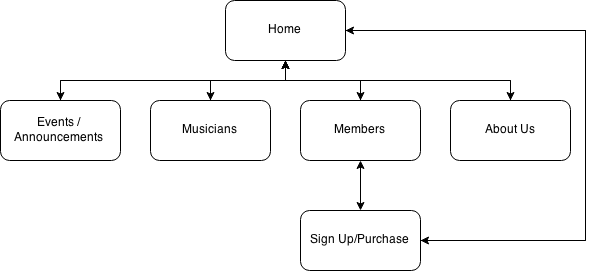
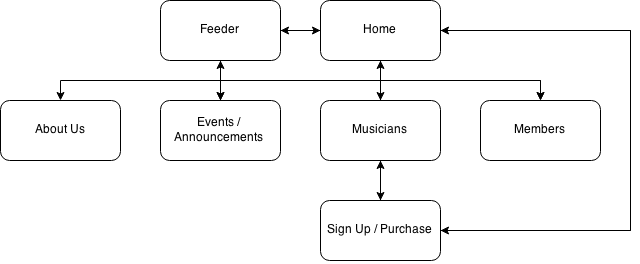
Last Stretch
Feeder Page Added
Updated the Site Flowchart

diff --git a/TCMCFeeder.html b/TCMCFeeder.html
@@ -1,0 +1,91 @@
+<!doctype html>
+<html>
+<head>
+<meta charset="utf-8">
+<link rel="stylesheet" type="text/css" href="main.css">
+<title>Townsville Community Music Centre - Home</title>
+</head>
+
+<body>
+	
+    <header>
+    <img src="TCMC98Neg.gif" alt="Townsville Community Music Centre Logo Left">
+    <img src="TCMC98Neg.gif" alt="Townsville Community Music Centre Logo Right">
+    </header>
+    <div class="container">
+        <nav>
+        <ul>
+        	<li><a href="TCMCHome.html">Home</a></li>
+
+            <li><a href="TCMCEvents.html">Events</a></li>
+
+            <li><a href="TCMCMembers.html">Members</a></li>
+
+            <li><a href="TCMCMusicans.html">Musicians</a></li>
+
+            <li><a href="TCMCAboutUs.html">About Us</a></li>
+
+        </ul>
+        </nav>
+    </div>
+    
+    <div id="feederImg">
+    <img src="PianoKeys.jpg" alt="Piano"/>
+    </div>
+    	
+    <div class="byLine">
+    	<p>
+        Like these tips? Try a Masterclass with Roman Rudnytsky!
+    
+    <div class="externalEventsInfo">
+    <a href="TCMCEvents.html">See our Events!</a>
+    </div>
+   
+    	</p>
+    
+    </div>
+     
+     <div class="aboutFeeder">
+<h3>Simple Easy Tips When Starting to Play the Piano</h3>
+<h4>Just Relax</h4>
+<p>
+If your fingers are rigid, stiff, with the anxiety of trying to get the right notes at the right time, it will be much more difficult to get it right. Touching the piano keys lightly and gently will make it  much easier to get the the right place at the right time. A relaxed hand is much easier to get the the right place at the right time.
+</p>
+
+<h4>Enjoy Yourself</h4>
+<p>Play something you like and that you are familiar with. In time, you will be able to look at any sheet of music and play something close to what is written, but there is no sense adding the burden of playing unfamiliar music on top of learning to press the right key. When we learned to type, we learned by typing familiar words. We didn't learn to type obscure chemical names or technical jargon. The same applies to the piano. When starting out, play what is fun for you. Anything you play will develop your skill.
+
+If you are practicing to play by ear, play what you are familiar with: advertising jingles, TV theme music, popular folk songs, etc.
+</p>
+
+<h4>For improving Fluidity</h4>
+<p>
+Try to play by ear and your fluidity may increase greatly.  In other words play without any music, sit down and play the melody to some songs that are very familiar to you. This should be music that you have not previously played from a printed page.</p>
+
+<p>You don't have to become an expert at playing by ear, but if you practice until you can do it a little bit, it will greatly improve your sight reading capabilities!</p>
+
+<h4>Keeping the Rhythm</h4>
+<p>
+The trick is to play what you play in the proper rhythm, even if you only play a portion of the song. In other  words, practice keeping the rhythm going at the expense of everything else. Don't play the cords, or play one or two notes in the cord rather than the whole thing.  Before long, you will be able to get more and more notes included in the cords, or you will learn which notes are optional. In most cases nobody but you will realize that there is a note missing.</p>
+<h3>Like these tips? Join a  masterclass with internationally acclaimed pianist Roman Rudnytsky and learn from the best. <a href="TCMCEvents.html">Visit our event page!</a></h3>
+<p>Tips referenced from <a href="http://www.lofthouse.com/music/piano/tips.html">http://www.lofthouse.com/music/piano/tips.html</a></p>
+     </div>
+
+    <footer>
+ 
+    	<ul>
+        	<li><a href="mailto:admin@townsvillemusic.org.au?subject=Musicians">Email us</a></li>
+        	<li><a href="https://www.facebook.com/pages/Townsville-Community-Music-Centre/159636880763534">Like us on Facebook!</a></li>
+            <li>Phone us on 07 4724 2086</li>
+            <li>Or call our mobile on 0402 255 182</li>
+        	<li><img src="TCCcolour150193.gif" alt="Townsville City Council Logo"/></li>
+            <li><img src="OLDGCBF15091.gif" alt="Queensland Government Logo"/></li>
+        </ul>
+        	<br/> <br/>
+        <p>If you'd like to drop in, our address is Townsville Civic Theatre, 41 Boundary Street, Townsville, Queensland 4810</p>
+        
+      
+    </footer>
+    </div>
+</body>
+</html>

diff --git a/TCMCHome.html b/TCMCHome.html
@@ -23,10 +23,11 @@
 
             <li><a href="TCMCMusicans.html">Musicians</a></li>
 
-            <li><a href="TCMCAboutUs.ht,l">About Us</a></li>
+            <li><a href="TCMCAboutUs.html">About Us</a></li>
 
         </ul>
         </nav>
+    </div>
     
     <div id="homeImg">
     <img src="CivicFront500.jpg" alt="The Townsville Civic Theatre"/>
@@ -39,11 +40,9 @@
     <div class="byLine">
     	<p>
    Masterclass with Roman Rudnytsky!
-    
     <div class="externalEventsInfo">
     <a href="TCMCEvents.html">See our Events!</a>
     </div>
-   
     	</p>
     
     </div>
@@ -51,7 +50,7 @@
      <div class="aboutHome">
 <h3>Are you new to Townsville?</h3>
 <p>General information about Townsville is available at -
-  <a href="#">http://www.townsville.qld.gov.au/townsville/infocentre/Pages/default.aspx</a></p>
+  <a href="http://www.townsville.qld.gov.au/townsville/infocentre/Pages/default.aspx">http://www.townsville.qld.gov.au/townsville/infocentre/Pages/default.aspx</a></p>
 <p>Townsville has a population of about 200,000 and is growing at about 1 suburb per year, so there is a lot of musical activity. All private schools and most government schools have music teachers. The larger private schools are Townsville Grammar, the Cathedral School and Ryan Catholic College. The larger public high schools are Kirwan and Pimlico.</p>
 <p>Music Teachers Association of Qld is a good source of information for local music teachers.</p>
 <p>The Townsville Branch contact is the Secretary (Ms Margery Jorgensen)</p>
@@ -60,10 +59,10 @@
 <p>Another active teacher's organisation is the Kodaly Music Education Institute of Australia -
 www.kodaly.org.au/
 Information on their Townsville Chapter can be found at -
-  <a href="#">http://webapps.townsville.qld.gov.au/CommunityDirectory/Organisation/OrganisationDetails/1185</a></p>
+  <a href="http://webapps.townsville.qld.gov.au/CommunityDirectory/Organisation/OrganisationDetails/1185">http://webapps.townsville.qld.gov.au/CommunityDirectory/Organisation/OrganisationDetails/1185</a></p>
 <p>Some local businesses also employ or assist music teachers. Try these - </p>
 <p>heather@thekeyboardshop.com.au </p>
-<p>and <a href="#">www.artiesmusiconline.com.au/</a></p>
+<p>and <a href="www.artiesmusiconline.com.au/">www.artiesmusiconline.com.au/</a></p>
 
 <p>Busking is permitted at several public spaces around the city with a Buskers Permit from the city council - phone 4727 9680.
 There is no age limit, but buskers 16 and under will need to be accompanied by a parent/guardian.</p>

diff --git a/main.css b/main.css
@@ -71,23 +71,6 @@ nav a:hover {
 	}
 }
 
-#musicianImg {
-	display: block;
-	margin-left: auto;
-	margin-right: auto;
-	background-color:rgba(0,0,0,0.2);
-	width: 47.35rem;
-}
-
-div#musicianImg {
-	text-align: center;
-}
-
-#musicianImg img {
-	width: 46rem;
-	padding-top: 0.5rem;
-}
-
 #homeImg {
 	display: block;
 	margin-left: auto;
@@ -100,12 +83,29 @@ div#homeImg {
 	text-align: center;
 }
 
+#homeImg img {
+	width: 46rem;
+	padding-top: 0.5rem;
+}
+
 div#homeImg p {
 	margin: 0.5rem;
 	color: rgba(255,255,255,0.50);
 }
 
-#homeImg img {
+#feederImg {
+	display: block;
+	margin-left: auto;
+	margin-right: auto;
+	background-color:rgba(0,0,0,0.2);
+	width: 47.35rem;
+}
+
+div#feederImg {
+	text-align: center;
+}
+
+#feederImg img {
 	width: 46rem;
 	padding-top: 0.5rem;
 }
@@ -147,10 +147,6 @@ div#homeImg p {
 	color:rgba(255,255,255,1.00);
 }
 
-.aboutHome {
-	color:rgba(255,255,255,1.00);
-}
-
 .aboutHome p:first-child {
 	margin-top: 0rem;
 	padding-left: 0.5rem;
@@ -159,6 +155,7 @@ div#homeImg p {
 	margin-left: 0.3rem;
 	width: 26rem;
 	float: left;
+	background-color:rgba(0,0,0,0.2);
 }
 
 .aboutHome p:nth-child(2) {
@@ -166,6 +163,33 @@ div#homeImg p {
 	padding-top: 1rem;
 	width: 46rem;
 	float: right;
+	background-color: rgba(0,0,0,0.2);
+	padding-right: 0.6rem;
+	padding-left: 0.8rem;
+	margin-right:0.3rem;
+}
+
+.aboutFeeder {
+	color:rgba(255,255,255,1.00);
+}
+
+.aboutFeeder p:first-child {
+	margin-top: 0rem;
+	padding-left: 0.5rem;
+	padding-right: 0.5rem;
+	padding-bottom: 0.05rem;
+	margin-left: 0.3rem;
+	width: 26rem;
+	float: left;
+	background-color:rgba(0,0,0,0.2);
+}
+
+.aboutFeeder p:nth-child(2) {
+	margin-top: -1rem;
+	padding-top: 1rem;
+	width: 46rem;
+	float: right;
+	background-color: rgba(0,0,0,0.2);
 	padding-right: 0.6rem;
 	padding-left: 0.8rem;
 	margin-right:0.3rem;
